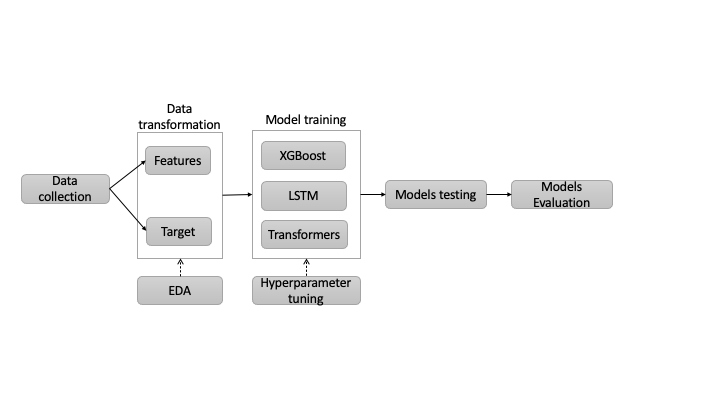
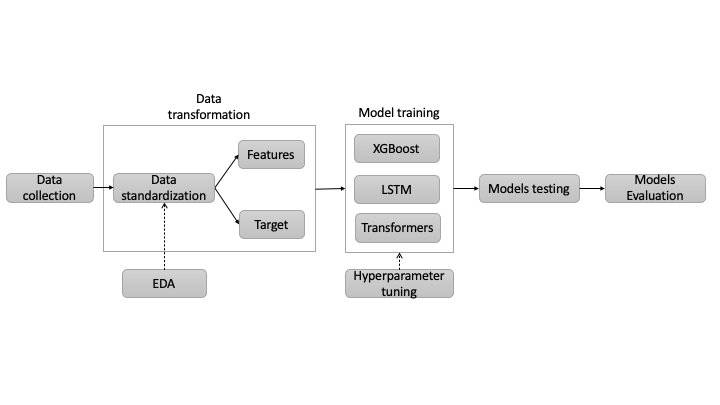
adding volatility-based labeling technique

Changed region(s): [[0.0, 0.237, 1.0, 0.7704]]

diff --git a/src/crypto_thesis/data_domains/spine/build_labels.py b/src/crypto_thesis/data_domains/spine/build_labels.py
@@ -8,7 +8,7 @@ import pandas as pd
 def spine_build_target_labels(df: pd.DataFrame, df_log_ret: pd.DataFrame, label_params: Dict[str, float]) -> pd.DataFrame:
 
     std_df = _build_stdev_by_window(df=df, df_log_ret=df_log_ret)
-    final_df = df.merge(std_df, on=["open_time", "close_time"], how="inner")
+    final_df = df.merge(std_df, on=["open_time", "target_time"], how="inner")
 
     assert df.shape[0] == final_df.shape[0], "Data loss, please review."
 
@@ -18,7 +18,7 @@ def spine_build_target_labels(df: pd.DataFrame, df_log_ret: pd.DataFrame, label_
 
     final_df.loc[:, "label"] = final_df.apply(lambda col: "top" \
                                                 if col["close_to_tgt_time_logret"] >= \
-                                                    col["logret_cumsum"] * col["std"] * (1 + label_params["tau"]) \
+                                                    col["logret_cumsum"] + col["std"] * label_params["tau"] \
                                                 else "bottom" \
                                             , axis=1)
 
@@ -29,11 +29,11 @@ def _build_stdev_by_window(df: pd.DataFrame, df_log_ret: pd.DataFrame) -> pd.Dat
 
     std_df = pd.DataFrame()
 
-    for start, end in zip(df["open_time"], df["close_time"]):
+    for start, end in zip(df["open_time"], df["target_time"]):
         df_filter = df_log_ret[df_log_ret["close_time"].between(start, end)]
 
         _std = df_filter["log_return"].std(ddof=1) #sampled stdev
-        df_aux = pd.DataFrame({"open_time": start, "close_time": end, "std": _std}, index=[0])
+        df_aux = pd.DataFrame({"open_time": start, "target_time": end, "std": _std}, index=[0])
 
         std_df = pd.concat([std_df, df_aux])
 

diff --git a/src/crypto_thesis/data_domains/spine/pre_processing.py b/src/crypto_thesis/data_domains/spine/pre_processing.py
@@ -116,9 +116,10 @@ def _get_target_time_values(df: pd.DataFrame, bars_ahead: int) -> pd.DataFrame:
     df.loc[:, "next_close"] = df["close"].shift(-bars_ahead)
 
     # remove last data point
-    df = df[df["next_log_return"].notnull()]
+    df_drop = df[df["next_log_return"].notnull()]
+    assert df_drop.shape[0] == df.shape[0] - 1, "More than 1 data point was removed, review."
 
-    df = df.drop(columns=["log_return"]).rename(columns={"next_log_return": "target_time_log_return",
+    df_drop = df_drop.drop(columns=["log_return"]).rename(columns={"next_log_return": "target_time_log_return",
                                                         "next_close": "target_time_close"})
 
-    return df
+    return df_drop
